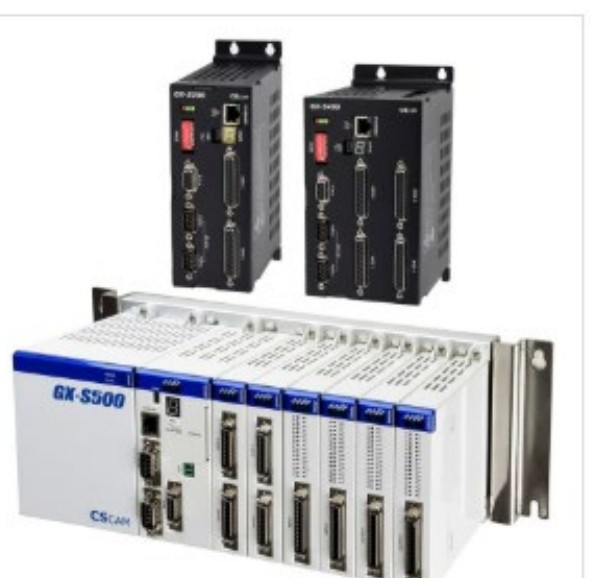
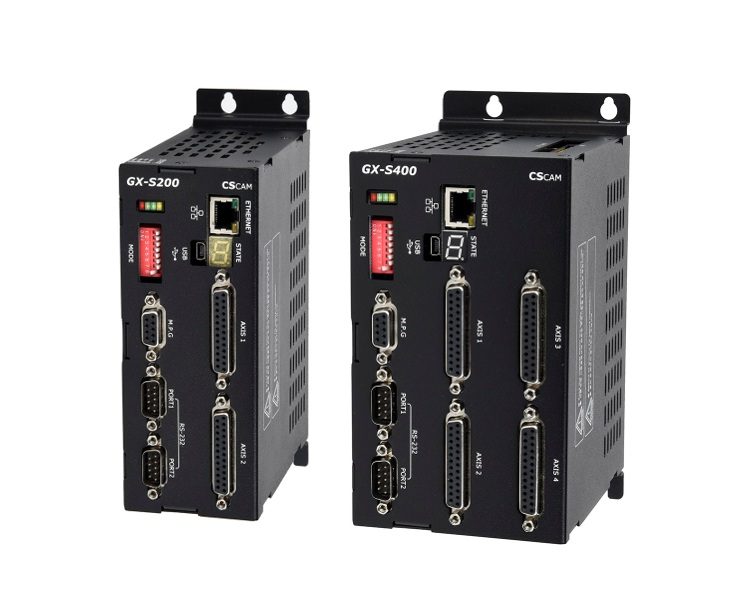
Add files via upload
GX 추가

diff --git a/products/gx-series.html b/products/gx-series.html
@@ -41,12 +41,117 @@
   <div class="container"><a href="../index.html">홈</a><span class="sep">/</span><a href="../index.html#motion-controller">모션 제어기</a><span class="sep">/</span><span class="current">GX-Series</span></div>
 </div>
 
-<section class="stub-block">
+<section class="detail-block alt">
   <div class="container">
-    <div class="stub-icon">&hellip;</div>
-    <h2>상세 콘텐츠 준비 중입니다</h2>
-    <p>GX-Series의 상세 사양, 구성도, 적용 사례는 추후 업데이트될 예정입니다.</p>
-    <a href="../index.html#motion-controller" class="btn btn-primary">모션 제어기 목록으로</a>
+    <div class="eyebrow">03-1 / GX-Series — 구성 및 특징</div>
+    <div class="split" style="margin-top:16px;">
+      <div class="split-media">
+        <div class="panel-head">GX-S200/S400 구성</div>
+        <div class="panel-body"><img src="../assets/img/gx-config.jpg" alt="GX-S200/S400 구성"></div>
+      </div>
+      <div class="split-text">
+        <div class="panel-head-plain">FEATURES</div>
+        <h3>GX-S200/S400 특징</h3>
+        <ul class="feature-list">
+          <li><span class="li-num">01</span><span>고정밀 모션제어 기술</span></li>
+          <li><span class="li-num">02</span><span>고성능 PLC(시퀀스제어) 기술</span></li>
+          <li><span class="li-num">03</span><span>최대 4계통제어 지원</span></li>
+          <li><span class="li-num">04</span><span>모션명령어, G CODE 동시 지원</span></li>
+          <li><span class="li-num">05</span><span>위치, 직선, 원호, 헬리컬 보간 기능</span></li>
+          <li><span class="li-num">06</span><span>위치제어, 속도제어, 동기제어</span></li>
+          <li><span class="li-num">07</span><span>MASTER-K, MELSEC 상위 통신 프로토콜 지원</span></li>
+          <li><span class="li-num">08</span><span>강력한 LADDER 방식의 PLC 프로그램 지원</span></li>
+          <li><span class="li-num">09</span><span>ANALOG/PULSE INTERFACE 지원</span></li>
+          <li><span class="li-num">10</span><span>USB, ETHERNET, RS232C 통신</span></li>
+        </ul>
+      </div>
+    </div>
+  </div>
+</section>
+
+<section class="detail-block">
+  <div class="container">
+    <div class="eyebrow">03-2 / GX-Series — 사양</div>
+    <div class="spec-table-wrap" style="margin-top:16px;">
+      <div class="stw-title"><span class="ico">&#9638;</span>GX-S200, GX-S400 사양</div>
+      <div class="spec-table-grid">
+        <div class="spec-group">
+          <h4>GX-S200</h4>
+          <table class="spec-table">
+            <tbody>
+              <tr><th>제어축수</th><td>2 Axis</td></tr>
+              <tr><th>I/O 접점수</th><td>IN16/OUT16</td></tr>
+              <tr><th>제어형태</th><td>Analog / Pulse</td></tr>
+              <tr><th>USB</th><td>1 Port</td></tr>
+              <tr><th>RS-232C</th><td>2 Port</td></tr>
+              <tr><th>ETHERNET</th><td>1 Port</td></tr>
+              <tr><th>MEMORY</th><td>4MB</td></tr>
+              <tr><th>I/O 확장</th><td>시리얼 I/O IN32/OUT32</td></tr>
+              <tr><th>MPG</th><td>1 Port</td></tr>
+              <tr><th>입력전원</th><td>DC 24V (1.3A)</td></tr>
+            </tbody>
+          </table>
+        </div>
+        <div class="spec-group">
+          <h4>GX-S400</h4>
+          <table class="spec-table">
+            <tbody>
+              <tr><th>제어축수</th><td>4 Axis</td></tr>
+              <tr><th>I/O 접점수</th><td>IN48/OUT48</td></tr>
+              <tr><th>제어형태</th><td>Analog / Pulse</td></tr>
+              <tr><th>USB</th><td>1 Port</td></tr>
+              <tr><th>RS-232C</th><td>2 Port</td></tr>
+              <tr><th>ETHERNET</th><td>1 Port</td></tr>
+              <tr><th>MEMORY</th><td>4MB</td></tr>
+              <tr><th>I/O 확장</th><td>시리얼 I/O IN32/OUT32</td></tr>
+              <tr><th>MPG</th><td>1 Port</td></tr>
+              <tr><th>입력전원</th><td>DC 24V (1.3A)</td></tr>
+            </tbody>
+          </table>
+        </div>
+      </div>
+    </div>
+  </div>
+</section>
+
+<section class="detail-block alt">
+  <div class="container">
+    <div class="eyebrow">03-3 / GX-Series — 응용장비</div>
+    <h2 class="section-title" style="font-size:26px;margin-top:10px;">GX-S200/S400 응용장비</h2>
+    <div class="equip-grid" style="margin-top:32px;">
+      <div class="equip-item">
+        <div class="thumb"><img src="../assets/img/gx-app1.jpg" alt="겐트리로더"></div>
+        <span>겐트리로더</span>
+      </div>
+      <div class="equip-item">
+        <div class="thumb"><img src="../assets/img/gx-app2.jpg" alt="델타로봇"></div>
+        <span>델타로봇</span>
+      </div>
+      <div class="equip-item">
+        <div class="thumb"><img src="../assets/img/gx-app3.jpg" alt="직교로봇"></div>
+        <span>직교로봇</span>
+      </div>
+      <div class="equip-item">
+        <div class="thumb"><img src="../assets/img/gx-app4.jpg" alt="디스펜서"></div>
+        <span>디스펜서</span>
+      </div>
+      <div class="equip-item">
+        <div class="thumb"><img src="../assets/img/gx-app5.jpg" alt="스카라 로봇"></div>
+        <span>스카라 로봇</span>
+      </div>
+    </div>
+  </div>
+</section>
+
+<section class="section alt" id="contact">
+  <div class="container">
+    <div class="detail-cta">
+      <div>
+        <h3>GX-Series 도입 문의</h3>
+        <p>구성 및 견적이 필요하시면 모션 제어기 라인업 전체를 함께 확인해보세요.</p>
+      </div>
+      <a href="../index.html#motion-controller" class="btn btn-ghost">모션 제어기 목록으로</a>
+    </div>
   </div>
 </section>
 

diff --git a/assets/css/style.css b/assets/css/style.css
@@ -211,6 +211,7 @@ h1, h2, h3, h4, h5, p { margin: 0; }
 .section.alt { background: var(--bg-alt); }
 .section.alt2 { background: var(--bg-alt2); }
 .section.dark { background: var(--navy); color: var(--white); }
+.section.compact-y { padding: 48px 0; }
 .section-head { margin-bottom: 48px; }
 .section-head.center { text-align: center; max-width: 700px; margin-left: auto; margin-right: auto; }
 

diff --git a/index.html b/index.html
@@ -65,7 +65,7 @@
 </section>
 
 <!-- 01. 사업 소개 -->
-<section class="section">
+<section class="section compact-y">
   <div class="container">
     <div class="section-head">
       <div class="eyebrow">01 / 사업 소개</div>
